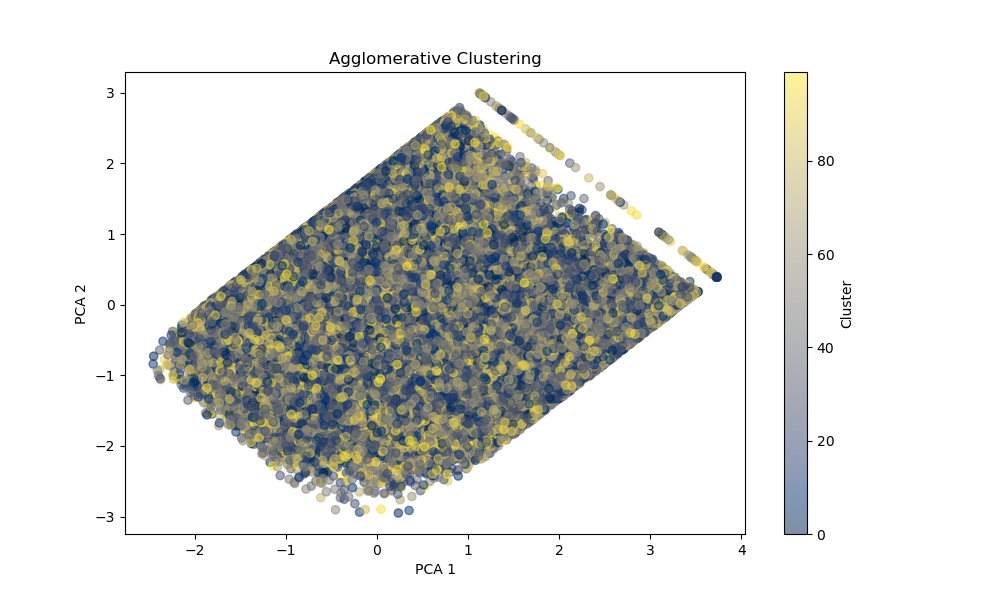
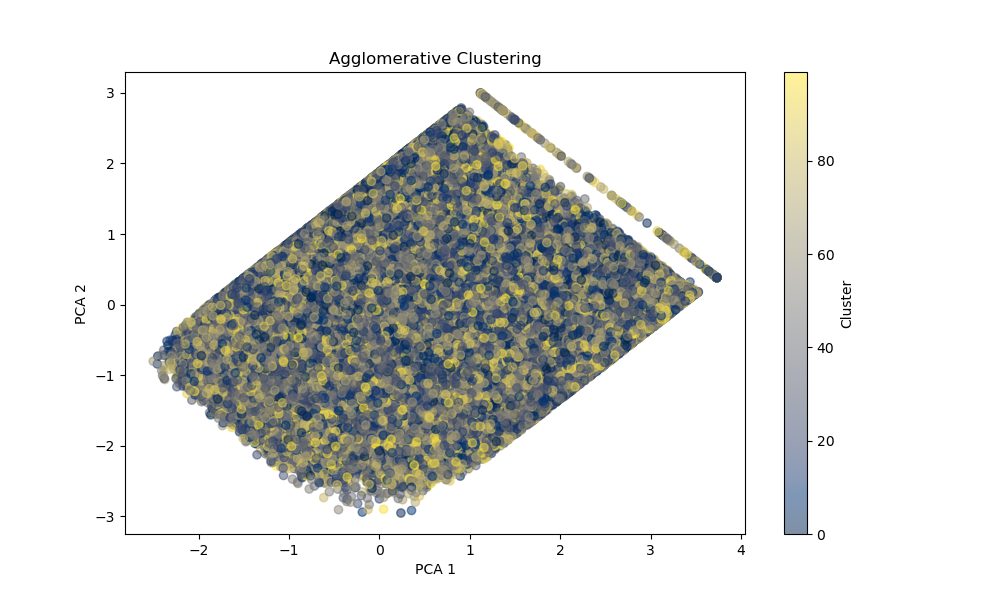
Comparison

diff --git a/app/templates/comparison.html b/app/templates/comparison.html
@@ -10,42 +10,47 @@
     <div class="container">
         <h1>Clustering Comparison Results</h1>
 
-        <!-- Section for Evaluation Metrics (Moved to the top) -->
+        <!-- Section for Evaluation Metrics -->
         <div id="metrics">
             <h2>Clustering Evaluation Metrics</h2>
-            
-            <h3>KMeans Metrics</h3>
-            <ul>
-                {% if kmeans_metrics %}
-                    {% for metric, value in kmeans_metrics.items() %}
-                        <li>{{ metric }}: {{ value }}</li>
+            <table class="table table-striped">
+                <thead>
+                    <tr>
+                        <th>Metric</th>
+                        <th>KMeans</th>
+                        <th>DBSCAN</th>
+                        <th>Agglomerative</th>
+                    </tr>
+                </thead>
+                <tbody>
+                    {% for metric_name in ['Silhouette Score', 'Davies-Bouldin Index', 'Calinski-Harabasz Index', 'WCSS', 'Fowlkes-Mallows Index'] %}
+                        <tr>
+                            <td>{{ metric_name }}</td>
+                            <td>
+                                {% if metrics['Kmeans ' + metric_name] is not none %}
+                                    {{ metrics['Kmeans ' + metric_name] }}
+                                {% else %}
+                                    N/A
+                                {% endif %}
+                            </td>
+                            <td>
+                                {% if metrics['Dbscan ' + metric_name] is not none %}
+                                    {{ metrics['Dbscan ' + metric_name] }}
+                                {% else %}
+                                    N/A
+                                {% endif %}
+                            </td>
+                            <td>
+                                {% if metrics['Agglomerative ' + metric_name] is not none %}
+                                    {{ metrics['Agglomerative ' + metric_name] }}
+                                {% else %}
+                                    N/A
+                                {% endif %}
+                            </td>
+                        </tr>
                     {% endfor %}
-                {% else %}
-                    <p>No metrics found for KMeans clustering.</p>
-                {% endif %}
-            </ul>
-
-            <h3>DBSCAN Metrics</h3>
-            <ul>
-                {% if dbscan_metrics %}
-                    {% for metric, value in dbscan_metrics.items() %}
-                        <li>{{ metric }}: {{ value }}</li>
-                    {% endfor %}
-                {% else %}
-                    <p>No metrics found for DBSCAN clustering.</p>
-                {% endif %}
-            </ul>
-
-            <h3>Agglomerative Metrics</h3>
-            <ul>
-                {% if agglomerative_metrics %}
-                    {% for metric, value in agglomerative_metrics.items() %}
-                        <li>{{ metric }}: {{ value }}</li>
-                    {% endfor %}
-                {% else %}
-                    <p>No metrics found for Agglomerative clustering.</p>
-                {% endif %}
-            </ul>
+                </tbody>
+            </table>
         </div>
 
         <!-- Section for Cluster Count Tables -->

diff --git a/app/main.py b/app/main.py
@@ -20,7 +20,7 @@ from dotenv import load_dotenv
 from sklearn.metrics.pairwise import cosine_similarity
 from sklearn.metrics import pairwise_distances
 import mysql.connector
-from sklearn.metrics import silhouette_score, davies_bouldin_score, pairwise_distances
+from sklearn.metrics import silhouette_score, davies_bouldin_score, calinski_harabasz_score, fowlkes_mallows_score
 from sklearn.decomposition import PCA
 import dask.dataframe as dd
 from sklearn.preprocessing import StandardScaler
@@ -330,24 +330,6 @@ def suggestions():
 def home():
     return render_template("app.html")
 
-
-from flask import Blueprint, render_template, current_app
-from flask_caching import Cache
-from sqlalchemy import inspect, text
-import pandas as pd
-import numpy as np
-from sklearn.preprocessing import StandardScaler
-from sklearn.metrics import silhouette_score, davies_bouldin_score, calinski_harabasz_score, fowlkes_mallows_score
-from sklearn.decomposition import PCA
-import logging
-
-# Initialize the logger
-logger = logging.getLogger(__name__)
-
-# Blueprint and cache setup
-bp = Blueprint('comparison', __name__)
-cache = Cache()
-
 def initialize_clustering(uri, engine):
     perform_kmeans_clustering(engine)
     perform_dbscan_clustering(engine)
@@ -395,7 +377,7 @@ def comparison():
         logger.info(f"Data shape after dropping NaNs: {df_features.shape}")
 
         # Sample 10% of the dataset
-        df_features = df_features.sample(frac=0.1, random_state=1)
+        df_features = df_features.sample(frac=0.2, random_state=1)
         logger.info(f"Data shape after sampling 10%: {df_features.shape}")
 
         # Standardize the data before applying PCA
